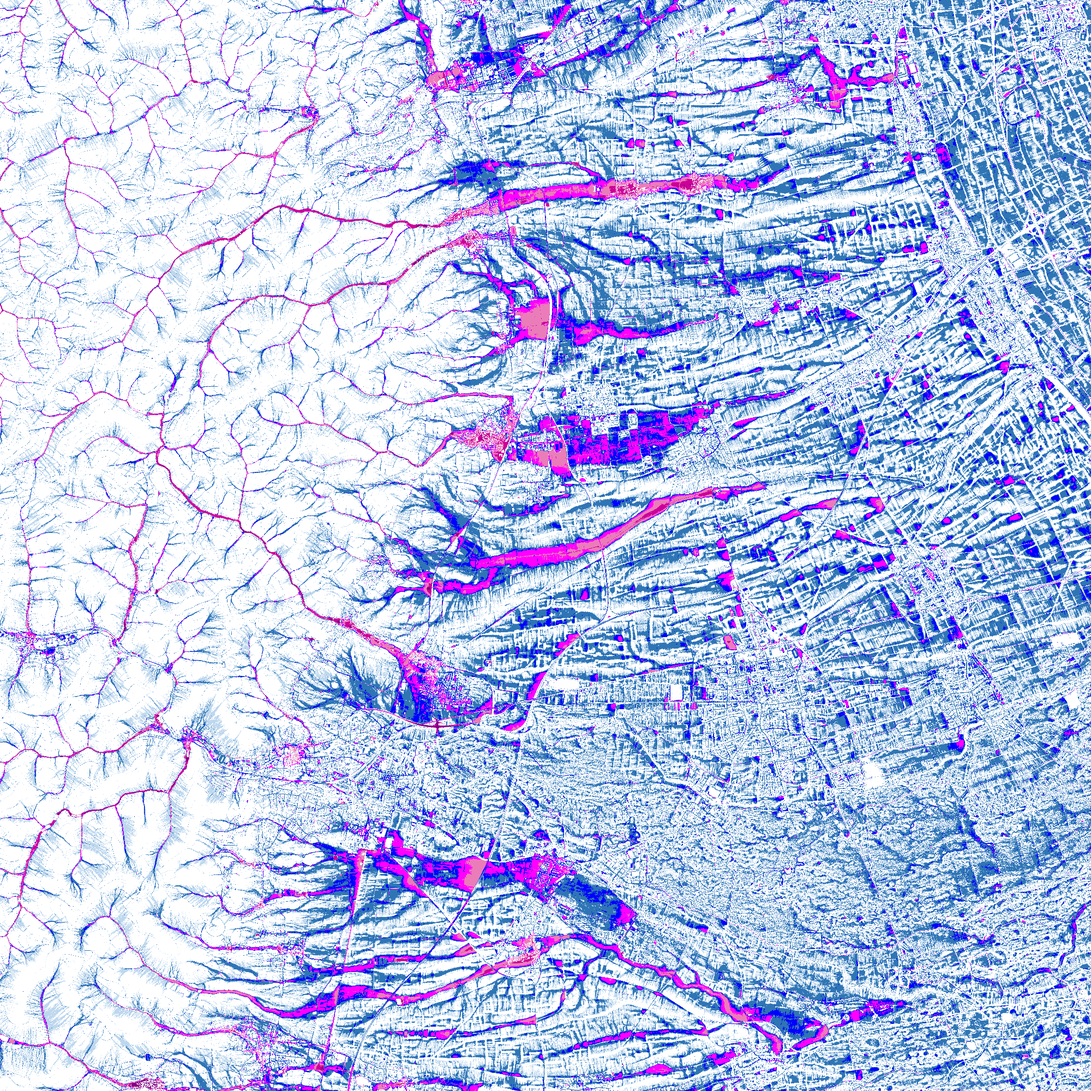
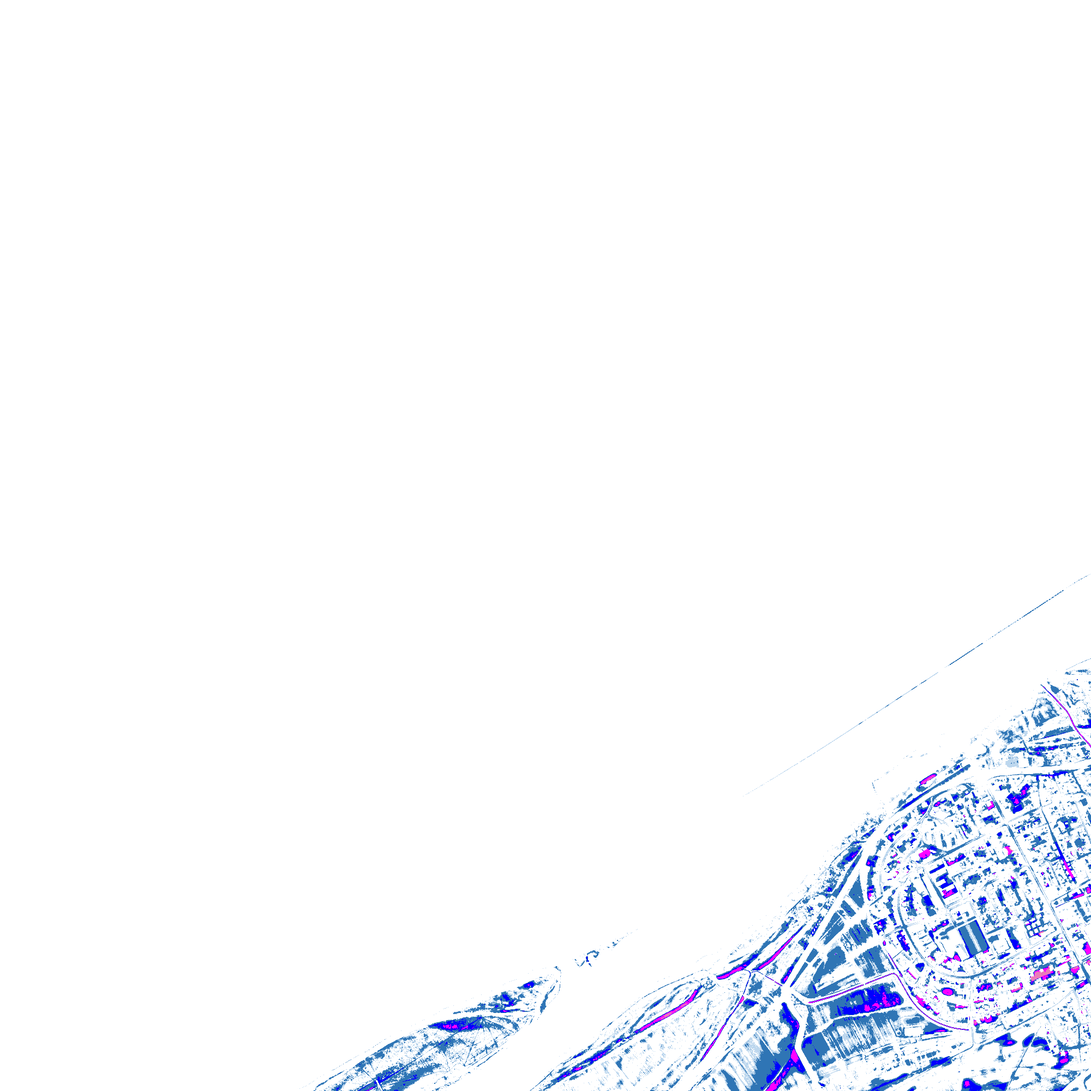
refactor: centralize folder naming logic in utils/naming.py
- Added utils/naming.py with functions for geo-based folder naming
  - geo_cache_subdir_from_latlon(lat, lon)
  - cache_path_for_latlon(lat, lon)
  - geo_folder_from_bbox(minx, miny, maxx, maxy)
- Replaced hardcoded folder naming in:
  - use_cases/download_layers_use_case.py
  - analysis/generate_layers.py
  - forecast grid caching functions
- Ensured consistent rounding (2 decimals for lat/lon folders)
- All cache and WMS layer files now stored in geo-specific subfolders
  generated via utils/naming

diff --git a/src/use_cases/download_layers_use_case.py b/src/use_cases/download_layers_use_case.py
@@ -1,37 +1,43 @@
 from argparse import Namespace
 from logging import Logger
-from typing import Iterable
+from typing import Tuple, Optional
+from pyproj import Transformer
 
-from src.analysis.generate_layers import download_all_wms_layers, download_selected_layers
+from src.analysis.generate_layers import download_all_wms_layers
 from src.utils.utils_logger import get_logger
 from src.io.wms_client import BBox
+from src.utils.naming import cache_path_for_latlon
 
 logger: Logger = get_logger()
 
+_TRANSFORMER = Transformer.from_crs("EPSG:4326", "EPSG:25832", always_xy=True)
+
+def _latlon_to_xy25832(lon: float, lat: float) -> Tuple[float, float]:
+    x, y = _TRANSFORMER.transform(lon, lat)
+    return x, y
+
+def _bbox_from_latlon(lat: float, lon: float, radius_m: int = 2000) -> BBox:
+    x, y = _latlon_to_xy25832(lon, lat)
+    return BBox(int(x - radius_m), int(y - radius_m), int(x + radius_m), int(y + radius_m))
+
 def run_download_layers_use_case(args: Namespace) -> None:
     """
-    Orchestriert den Download-Use-Case.
-    Optional unterstützt:
-      - args.layers: Liste voller Layernamen (nur diese laden)
-      - args.width/args.height: Bildgröße
-      - args.minx/miny/maxx/maxy: BBox-Override
+    Speichert WMS-Layer in data/cache/lat{:.2f}_lon{:.2f}/, wenn --lat/--lon übergeben sind.
+    Ohne lat/lon: Standardziel aus config (WMS_LAYERS_DIR).
     """
     logger.info("🌐 Lade WMS-Layer …")
 
-    selected: Iterable[str] | None = getattr(args, "layers", None)
-    width = getattr(args, "width", None)
-    height = getattr(args, "height", None)
-    bbox_vals = tuple(getattr(args, k, None) for k in ("minx", "miny", "maxx", "maxy"))
+    lat = getattr(args, "lat", None)
+    lon = getattr(args, "lon", None)
 
-    kwargs = {}
-    if width and height:
-        kwargs["size"] = (int(width), int(height))
-    if all(v is not None for v in bbox_vals):
-        kwargs["bbox"] = BBox(*(int(v) for v in bbox_vals))  # type: ignore[arg-type]
-
-    if selected:
-        download_selected_layers(selected, **kwargs)
+    if lat is not None and lon is not None:
+        lat = float(lat); lon = float(lon)
+        bbox = _bbox_from_latlon(lat, lon)
+        target_dir = cache_path_for_latlon(lat, lon)
+        logger.debug("🧭 lat/lon -> BBox=%s; Zielordner=%s", bbox, target_dir)
+        download_all_wms_layers(bbox=bbox, target_dir=target_dir)
     else:
-        download_all_wms_layers(**kwargs)
+        # Fallback: alles per Defaults (keine lat/lon → kein spezieller Cache-Ordner)
+        download_all_wms_layers()
 
     logger.info("✅ WMS-Layer wurden erfolgreich heruntergeladen.")

diff --git a/src/analysis/generate_layers.py b/src/analysis/generate_layers.py
@@ -1,4 +1,5 @@
-from typing import Mapping, Iterable
+import os
+from typing import List, Optional
 from src.io.wms_client import build_wms_params, fetch_wms_png, BBox
 from src.io.file_io import ensure_dir, save_png
 from src.config.config import (
@@ -8,34 +9,24 @@ from src.utils.utils_logger import get_logger
 
 logger = get_logger()
 
-def download_all_wms_layers(
-    layers: Mapping[str, str] | None = None,
-    bbox: BBox = DEFAULT_BBOX,
-    size: tuple[int, int] = DEFAULT_SIZE,
-    base_url: str = WMS_BASE_URL,
-    outdir: str = WMS_LAYERS_DIR,
-) -> list[str]:
-    """Lädt alle vordefinierten WMS-Layer und speichert sie als PNG. Gibt die Pfade zurück."""
-    layers = layers or DEFAULT_LAYERS
-    outpath = ensure_dir(outdir)
-    w, h = size
-    saved: list[str] = []
+def download_all_wms_layers(bbox: Optional[BBox] = None, target_dir: Optional[str] = None) -> List[str]:
+    """
+    Lädt alle vordefinierten WMS-Layer.
+    - Standard: speichert nach WMS_LAYERS_DIR
+    - Wenn target_dir gesetzt: speichert dorthin (z. B. data/cache/latXX_lonYY/)
+    """
+    outdir_base = target_dir if target_dir else WMS_LAYERS_DIR
+    outdir = ensure_dir(outdir_base)
 
-    for full_layer, short_name in layers.items():
+    w, h = DEFAULT_SIZE
+    use_bbox = bbox or DEFAULT_BBOX
+    saved: List[str] = []
+
+    for full_layer, short_name in DEFAULT_LAYERS.items():
         logger.info("⬇ Downloading layer: %s", full_layer)
-        params = build_wms_params(full_layer, bbox, w, h)
-        content = fetch_wms_png(base_url, params)
-        saved.append(save_png(content, outpath, short_name))
+        params = build_wms_params(full_layer, use_bbox, w, h)
+        content = fetch_wms_png(WMS_BASE_URL, params)
+        saved.append(save_png(content, outdir, short_name))
 
-    logger.info("✅ %d Layer gespeichert in %s", len(saved), outpath)
+    logger.info("✅ %d Layer gespeichert in %s", len(saved), outdir)
     return saved
-
-def download_selected_layers(
-    selected: Iterable[str],
-    layers: Mapping[str, str] | None = None,
-    **kwargs,
-) -> list[str]:
-    """Lädt nur ausgewählte Layer (Keys = volle Layernamen)."""
-    layers = layers or DEFAULT_LAYERS
-    submap = {k: layers[k] for k in selected if k in layers}
-    return download_all_wms_layers(layers=submap, **kwargs)

diff --git a/main.py b/main.py
@@ -23,7 +23,9 @@ def main() -> None:
     subparsers = parser.add_subparsers(dest="command", required=True)
 
     # Subcommand 1: download-layers
-    subparsers.add_parser("download-layers", help="Lade alle WMS-Layer für das PoC herunter")
+    layers_parser = subparsers.add_parser("download-layers", help="Lade WMS Layer herunter")
+    layers_parser.add_argument("--lat", type=float, help="Geografische Breite (z. B. 49.45)")
+    layers_parser.add_argument("--lon", type=float, help="Geografische Länge (z. B. 8.18)")
 
     # Subcommand 2: forecast
     forecast_parser = subparsers.add_parser("forecast", help="24h Regenvorhersage")

diff --git a/src/utils/naming.py b/src/utils/naming.py
@@ -1,0 +1,10 @@
+import os
+from src.config.config import CACHE_DIR
+
+def geo_cache_subdir_from_latlon(lat: float, lon: float) -> str:
+    # 2 Dezimalstellen => konsistent mit deinem bestehenden Cache
+    return f"lat{lat:.2f}_lon{lon:.2f}"
+
+def cache_path_for_latlon(lat: float, lon: float) -> str:
+    """Voller Pfad zu data/cache/lat{:.2f}_lon{:.2f}/"""
+    return os.path.join(CACHE_DIR, geo_cache_subdir_from_latlon(lat, lon))
